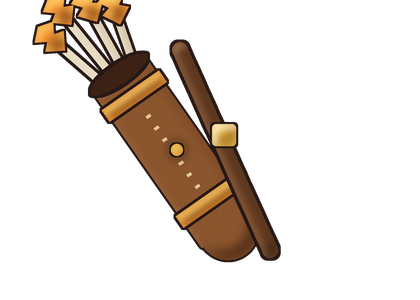
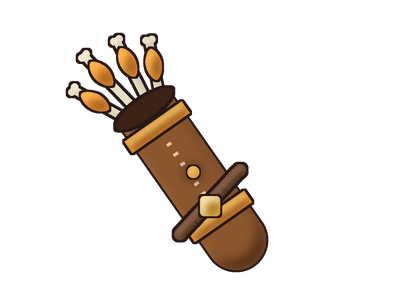
Arte final das costas e caudas novas (16 ossos); 67 ossos com arte própria
Claude-Session: https://claude.ai/code/session_01R7KYEBarYjUqJhKP8XiaSS

Changed region(s): [[0.0619, 0.0, 0.681, 0.93]]

diff --git a/tools/art_extra_back.py b/tools/art_extra_back.py
@@ -147,12 +147,12 @@ def insect_wing(cv, W, H, root, ang, length, width, col, vein, dim=1.0, alpha=17
 def draw_wings_wasp(bone_id, family):
     cv, W, H, px, py = back_canvas()
     fc = fam(family)
-    col, vein = (238, 250, 170), (96, 120, 40)
+    col, vein = (244, 255, 176), (110, 140, 40)
     # par de trás (mais escuro e menor), depois o par da frente
-    insect_wing(cv, W, H, (px + 6, py - 10), -72, 120, 26, col, vein, dim=0.8, alpha=140)
-    insect_wing(cv, W, H, (px + 4, py - 4), -45, 82, 20, col, vein, dim=0.8, alpha=140)
-    insect_wing(cv, W, H, (px - 4, py - 6), -112, 150, 32, col, vein, alpha=160)
-    insect_wing(cv, W, H, (px - 4, py), -148, 104, 23, col, vein, alpha=160)
+    insect_wing(cv, W, H, (px + 6, py - 10), -72, 120, 26, col, vein, dim=0.84, alpha=205)
+    insect_wing(cv, W, H, (px + 4, py - 4), -45, 82, 20, col, vein, dim=0.84, alpha=205)
+    insect_wing(cv, W, H, (px - 4, py - 6), -112, 150, 32, col, vein, alpha=220)
+    insect_wing(cv, W, H, (px - 4, py), -148, 104, 23, col, vein, alpha=220)
     root_knob(cv, W, H, px, py, 14)
     accent_dots(cv, W, H, [(px - 4, py - 6)], fc["aura"], 5, glow_r=4)
     finish(cv, W, H, out("bones", bone_id + ".png"))
@@ -262,7 +262,7 @@ def draw_shell_crab(bone_id, family):
 def draw_spikes_lizard(bone_id, family):
     cv, W, H, px, py = back_canvas()
     fc = fam(family)
-    spine = bezier([(px + 30, py + 8), (px - 40, py - 30), (px - 130, py - 20), (px - 190, py + 30)], 6)
+    spine = bezier([(px + 30, py + 8), (px - 40, py - 30), (px - 125, py - 20), (px - 176, py + 30)], 6)
     heights = [64, 116, 148, 140, 104, 64, 32]
     tips = []
     for (x, y), hgt in zip(spine, heights):
@@ -302,9 +302,9 @@ def draw_quiver_centaur(bone_id, family):
         st = (top[0] - uy * (k - 1.5) * 13, top[1] + ux * (k - 1.5) * 13)
         en = (st[0] + aux * ln, st[1] + auy * ln)
         arrows.bone((st[0] - aux * 30, st[1] - auy * 30), en, 4, knob=1.5)
-        fl.poly(leaf_pts((en[0] - aux * 38, en[1] - auy * 38), ang + da, 34, 11, power=0.6))
-    pc(cv, fl, (250, 150, 50), ow=2.2, grain=False)
+        fl.poly(leaf_pts((en[0] - aux * 40, en[1] - auy * 40), ang + da, 32, 8, power=0.6))
     paint(cv, arrows, outline_w=2.4)
+    pc(cv, fl, (250, 150, 50), ow=2.2, grain=False)
     # tubo da aljava
     q = Layer(W, H)
     mid = ((base[0] + top[0]) / 2, (base[1] + top[1]) / 2)
@@ -327,10 +327,10 @@ def draw_quiver_centaur(bone_id, family):
     fill(cv, stitch, (230, 200, 150))
     # alça cruzando para o corpo
     strap = Layer(W, H)
-    strap.curve([(px - 40, py - 40), (px + 20, py + 0), (px + 80, py + 70)], 14)
-    pc(cv, strap, (110, 66, 36), ow=2.6)
+    strap.curve([(px - 30, py + 34), (px - 4, py + 6), (px + 30, py - 30)], 12)
+    pc(cv, strap, (110, 66, 36), ow=2.4)
     buckle = Layer(W, H)
-    buckle.rrect(px + 8, py - 14, px + 30, py + 8, 4)
+    buckle.rrect(px - 10, py - 4, px + 10, py + 16, 4)
     paint(cv, buckle, base=(240, 200, 90), shadow=(160, 110, 30), outline_w=2.2, grain=False)
     accent_dots(cv, W, H, [(mid[0] - uy * 4, mid[1] + ux * 4)], fc["aura"], 6, glow_r=5)
     finish(cv, W, H, out("bones", bone_id + ".png"))
@@ -409,20 +409,20 @@ def draw_tail_wolf(bone_id, family):
     for i, (x, y) in enumerate(path):
         fl.circle(x, y, rad(i))
     # tufos pontudos de pelo na borda, curvados para a ponta
-    for i in range(3, n, 2):
+    for i in range(3, n - 1, 2):
         x, y = path[i]
         ux, uy, nx, ny = nrm[i]
         for sgn in (-1, 1):
             rr = rad(i)
-            b0 = (x + nx * sgn * rr * 0.5, y + ny * sgn * rr * 0.5)
-            e = (x + nx * sgn * (rr + 10) + ux * 14 + r.uniform(-3, 3), y + ny * sgn * (rr + 10) + uy * 14 + r.uniform(-3, 3))
-            fl.tapered([b0, ((b0[0] + e[0]) / 2 + ux * 4, (b0[1] + e[1]) / 2 + uy * 4), e], rr * 0.9, 1.5)
+            b0 = (x + nx * sgn * rr * 0.3 - ux * 6, y + ny * sgn * rr * 0.3 - uy * 6)
+            e = (x + nx * sgn * (rr + 8) + ux * 22 + r.uniform(-3, 3), y + ny * sgn * (rr + 8) + uy * 22 + r.uniform(-3, 3))
+            fl.tapered([b0, ((b0[0] + e[0]) / 2 + ux * 6, (b0[1] + e[1]) / 2 + uy * 6), e], rr * 1.1, 2)
     ex, ey = path[-1]
     ux, uy, _, _ = nrm[-1]
-    fl.tapered([(ex - ux * 10, ey - uy * 10), (ex + ux * 26, ey + uy * 26)], 22, 2)
+    fl.tapered([(ex - ux * 20, ey - uy * 20), (ex + ux * 14, ey + uy * 14)], 30, 3)
     paint(cv, fl, base=(140, 128, 118), shadow=(78, 68, 64), light=(200, 190, 180), outline_w=3)
     tip = Layer(W, H)
-    tip.circle(ex + ux * 6, ey + uy * 6, 26)
+    tip.circle(ex - ux * 2, ey - uy * 2, 30)
     fill(cv, inter(tip, fl), (238, 230, 214))
     belly = Layer(W, H)
     belly.line(bezier([(px - 40, py + 18), (px - 110, py + 40), (px - 166, py + 10), (px - 166, py - 40)], 16), 12)
@@ -441,17 +441,17 @@ def draw_tail_centaur(bone_id, family):
     hx, hy = px - 44, py - 4
     hair = Layer(W, H)
     # massa de crina: sobe um pouco e cai ondulando para baixo/atrás
-    hair.tapered([(hx, hy), (hx - 80, hy - 50), (hx - 130, hy + 10), (hx - 150, hy + 80)], 44, 10)
+    hair.tapered([(hx, hy), (hx - 76, hy - 50), (hx - 120, hy + 10), (hx - 132, hy + 76)], 44, 10)
     r = rng(11)
     for k in range(7):
         off = k * 9 - 27
-        end = (hx - 150 + off * 0.9 + r.uniform(-6, 6), hy + 78 + abs(off) * 0.3 + r.uniform(-4, 6))
-        hair.tapered([(hx - 6, hy + off * 0.3), (hx - 80, hy - 46 + off * 0.8), (hx - 128 + off * 0.5, hy + 10 + off * 0.5), end], 12, 2)
+        end = (hx - 132 + off * 0.8 + r.uniform(-6, 6), hy + 78 + abs(off) * 0.3 + r.uniform(-4, 6))
+        hair.tapered([(hx - 6, hy + off * 0.3), (hx - 80, hy - 46 + off * 0.8), (hx - 118 + off * 0.5, hy + 10 + off * 0.5), end], 12, 2)
     paint(cv, hair, base=(120, 76, 40), shadow=(64, 36, 16), light=(186, 130, 80), outline_w=3)
     lines = Layer(W, H)
     for k in range(5):
         off = k * 10 - 20
-        lines.curve([(hx - 14, hy + off * 0.3), (hx - 80, hy - 42 + off * 0.8), (hx - 124 + off * 0.5, hy + 12 + off * 0.5), (hx - 142 + off * 0.8, hy + 70)], 2.2)
+        lines.curve([(hx - 14, hy + off * 0.3), (hx - 80, hy - 42 + off * 0.8), (hx - 116 + off * 0.5, hy + 12 + off * 0.5), (hx - 128 + off * 0.8, hy + 68)], 2.2)
     fill(cv, inter(lines, hair), (196, 146, 96), alpha=210)
     lines2 = Layer(W, H)
     for k in range(4):
@@ -504,7 +504,7 @@ def draw_tail_bat(bone_id, family):
 def draw_tail_skeleton_rat(bone_id, family):
     cv, W, H, px, py = tail_canvas()
     fc = fam(family)
-    base = bezier([(px, py), (px - 60, py + 40), (px - 150, py + 30), (px - 228, py - 30)], 26)
+    base = bezier([(px, py), (px - 60, py + 40), (px - 140, py + 30), (px - 196, py - 30)], 26)
     nrm = path_normals(base)
     path = []
     for i, (x, y) in enumerate(base):
@@ -622,7 +622,7 @@ def draw_tail_golem(bone_id, family):
 def draw_tail_dragon(bone_id, family):
     cv, W, H, px, py = tail_canvas()
     fc = fam(family)
-    ctrl = [(px + 6, py), (px - 80, py + 76), (px - 170, py + 56), (px - 170, py - 30)]
+    ctrl = [(px + 6, py), (px - 80, py + 76), (px - 165, py + 56), (px - 152, py - 34)]
     path = bezier(ctrl, 22)
     nrm = path_normals(path)
     n = len(path)
@@ -664,7 +664,7 @@ def draw_tail_dragon(bone_id, family):
     fill(cv, joints, (150, 120, 90), alpha=200)
     gold = [path[i] for i in (3, 9, 15)]
     accent_dots(cv, W, H, gold, (250, 200, 80), 3.5)
-    ember(cv, W, H, [(ex + ux * 50, ey + uy * 50 - 4, 3.5), (px - 120, py - 4, 3), (px - 60, py + 20, 2.5), (px - 200, py + 40, 3)], fc["aura"])
+    ember(cv, W, H, [(ex + ux * 50, ey + uy * 50 - 4, 3.5), (px - 120, py - 4, 3), (px - 60, py + 20, 2.5), (px - 184, py + 44, 3)], fc["aura"])
     finish(cv, W, H, out("bones", bone_id + ".png"))
 
 

diff --git a/docs/DECISOES.md b/docs/DECISOES.md
@@ -211,4 +211,4 @@ Resultado da simulação (60 jogadores novos, gastando o pó no Ossuário entre 
 - **Quedas:** um monstro comum sorteia **uma** das partes que tem e testa a chance pela raridade dela (no máximo um osso por monstro). Assim, mais variações não aumentam a quantidade de ossos por partida.
 - **Equilíbrio:** os atributos dos ossos novos foram calibrados na simulação (`tests/BalanceSim.tscn`, 40 jogadores x 6 partidas). Na 1ª versão o jogo ficou mais difícil (os ossos novos diluíam os antigos); com +50% nos atributos a curva voltou à de antes: Rei Rato 95%, Golem 85%, Dragão 32% dos jogadores vencem até a 6ª partida.
 - Novas habilidades periódicas: Garra flamejante (fogo), Enxurrada de ratos e Chuva de flechas (atingem todos), Pancada de cauda.
-- Arte placeholder em `tools/art_extra_head.py`, `tools/art_extra_limbs.py` e `tools/art_extra_back.py`, chamada por `tools/gen_art.py bones`.
+- Arte (placeholder no estilo do jogo, tamanho e pivô finais) em `tools/art_extra_head.py`, `tools/art_extra_limbs.py` e `tools/art_extra_back.py`, chamada por `tools/gen_art.py bones`.
